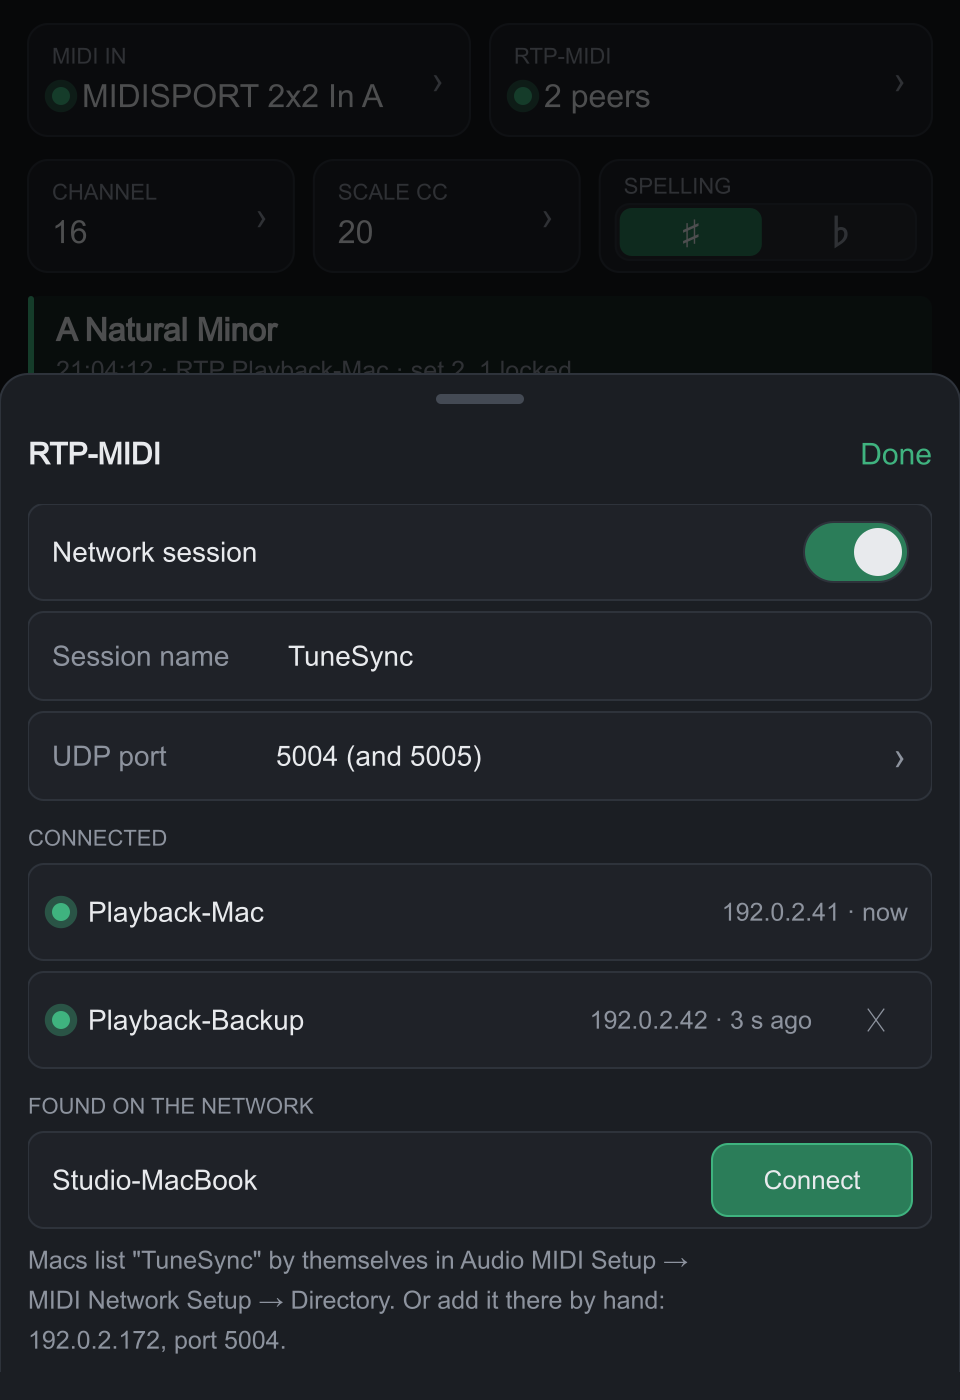
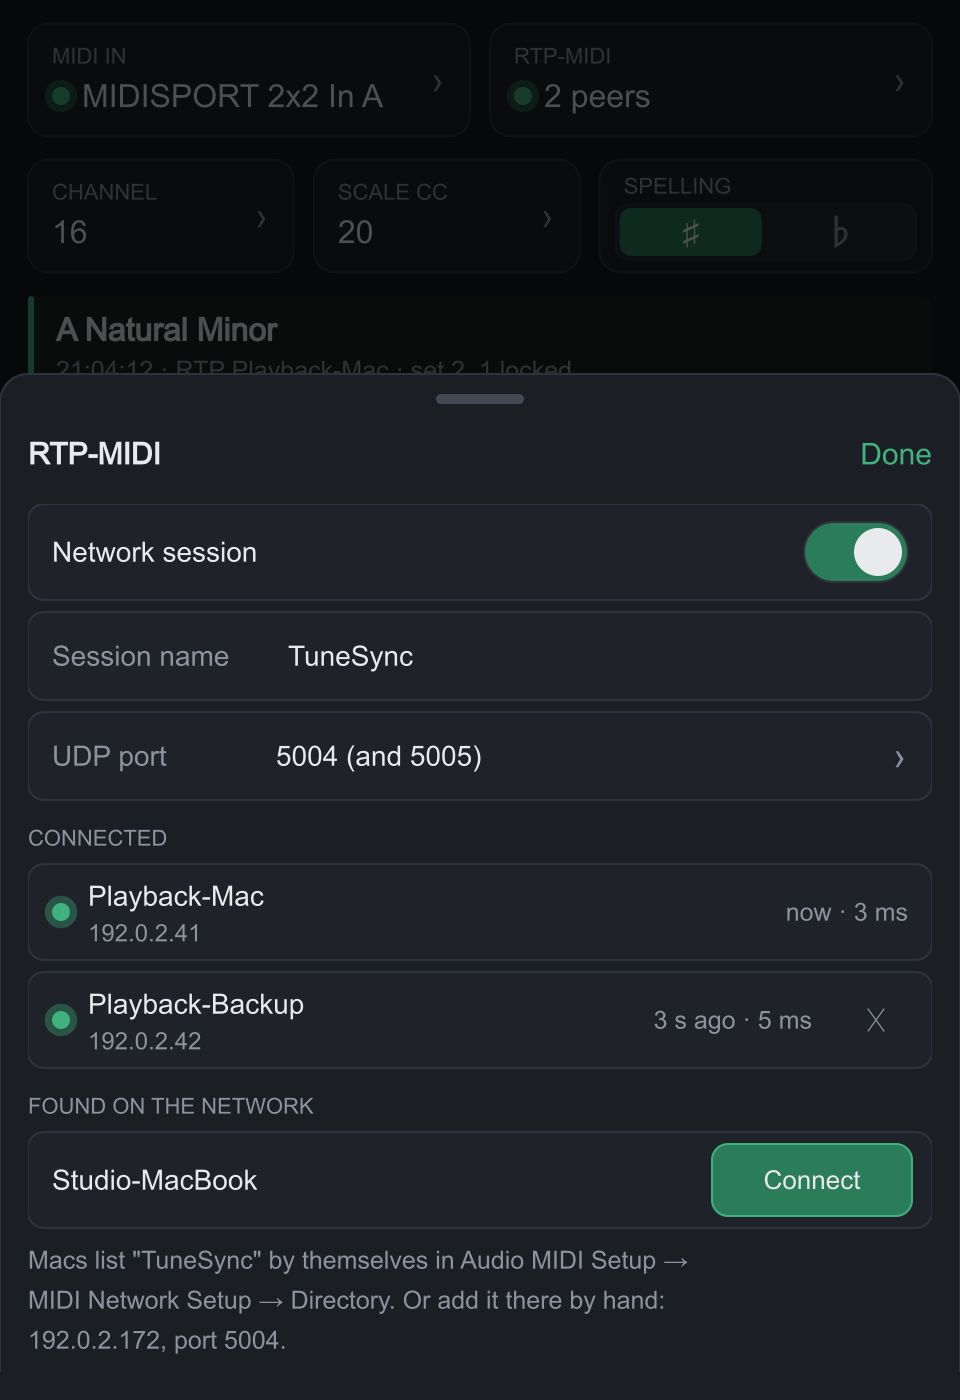
0.1.5: an away peer logged once; the round trip in the RTP-MIDI sheet
A remembered peer that is offline was invited again every 17 s and logged twice
each time, all night, pushing cues out of the window's log and the 1 MB file.
Why it waits is now logged once; its retries stay quiet until it connects or the
reason changes. A Connect from the sheet logs afresh.

The RTP-MIDI sheet shows each peer's network round trip from the clock sync
("now · 4 ms"), with the address under the name, so a long IPv6 address no
longer pushes the state off the row.

README: the network test done, the C API listed.

diff --git a/crates/rtpmidi/src/session.rs b/crates/rtpmidi/src/session.rs
@@ -9,6 +9,7 @@
 //! - **we invite the peer** (Connect in the window, or a remembered peer): IN to its
 //!   control port, then its data port, one a second; then we run clock sync. Refused,
 //!   unanswered or gone quiet: invited again later. After a BY we wait longer (30 s).
+//!   Why it waits is logged once; the retries of a peer that stays away are not.
 //!
 //! Receiver feedback (RS) goes to every connected peer's control port once a second
 //! while its sequence moves.
@@ -156,6 +157,9 @@ struct Peer {
     fed: u32,
     next_rs: u64,
     gone: bool,
+    /// Why it went to Waiting, logged once: while it stays away its retries are not
+    /// logged again (Connected or a new reason clears it).
+    waiting_why: Option<String>,
 }
 
 impl Peer {
@@ -192,6 +196,7 @@ impl Peer {
             fed: 0,
             next_rs: 0,
             gone: false,
+            waiting_why: None,
         }
     }
     // A peer that accepted or sent an invitation holds a session with us: it gets a BY.
@@ -341,12 +346,30 @@ impl Inner {
             return;
         }
         p.v.state = s;
+        // A remembered peer that is away is invited again every few seconds, all night if
+        // need be: say why once, then stay quiet until it connects or the reason changes.
+        let repeat = match s {
+            PeerState::Waiting => p.waiting_why.as_deref() == Some(why),
+            PeerState::Inviting | PeerState::InvitingData => p.waiting_why.is_some(),
+            _ => false,
+        };
+        match s {
+            PeerState::Waiting => p.waiting_why = Some(why.to_string()),
+            PeerState::Connected => p.waiting_why = None,
+            _ => {}
+        }
+        if repeat {
+            return;
+        }
         let d = p.v.display();
         let mut l = if d == p.v.ip { format!("RTP-MIDI: {d} {}", peer_state_name(s)) } else { format!("RTP-MIDI: {d} ({}) {}", p.v.ip, peer_state_name(s)) };
         if !why.is_empty() {
             l += &format!(" - {why}");
         }
-        // Inviting / Waiting cycles of a peer that is away are detail; arrivals and departures are not.
+        if s == PeerState::Waiting {
+            l += "; will keep inviting it";
+        }
+        // An invitation in flight is detail; arrivals, departures and why it waits are not.
         out.log(l, matches!(s, PeerState::Inviting | PeerState::InvitingData | PeerState::Accepting));
     }
     fn start_attempt(&mut self, i: usize, now: u64) {
@@ -361,6 +384,7 @@ impl Inner {
         p.ck_sent = 0;
         p.ck_ts1 = 0;
         p.ck_missed = 0;
+        p.v.rtt_ms = None;
         p.v.ctl_port = p.v.target;
         p.v.data_port = p.v.target.wrapping_add(1);
         p.next_at = now;
@@ -515,6 +539,7 @@ impl Session {
                 if g.peers[i].v.state == PeerState::Waiting {
                     g.start_attempt(i, now);
                     let mut p = std::mem::replace(&mut g.peers[i], Peer::new(""));
+                    p.waiting_why = None; // asked for again: log this attempt afresh
                     g.set_state(&mut p, PeerState::Inviting, "", &mut out);
                     g.peers[i] = p;
                 }

diff --git a/crates/rtpmidi/tests/session.rs b/crates/rtpmidi/tests/session.rs
@@ -574,6 +574,42 @@ fn we_invite() {
     assert!(until(500, || { no.step(); no.bye }), "close says goodbye to connected peers");
 }
 
+/// A remembered peer that is away all night: why it waits is logged once, its retries not
+/// at all, and its return is.
+#[test]
+fn an_away_peer_is_logged_once() {
+    let fake = Arc::new(AtomicU64::new(1000));
+    let (s, _, log, c) = session_with(Some(fake.clone()));
+    s.open(c).unwrap();
+    let mut away = FakeResponder::new();
+    away.silent = true;
+    s.invite("127.0.0.1", away.ctl.port, "Away");
+    let waiting = |s: &Session| s.peers()[0].state == PeerState::Waiting;
+    let mut rounds = 0;
+    for _ in 0..5 * 18 {
+        let was = waiting(&s);
+        until(3, || { s.poll(1); away.step(); false });
+        if waiting(&s) && !was {
+            rounds += 1;
+        }
+        fake.fetch_add(10000, Ordering::SeqCst);
+    }
+    assert!(rounds >= 4, "invited round after round ({rounds})");
+    let lines = |log: &Log| log.lock().unwrap().iter().filter(|l| l.contains("Away")).cloned().collect::<Vec<_>>();
+    assert_eq!(
+        lines(&log),
+        ["RTP-MIDI: Away (127.0.0.1) inviting", "RTP-MIDI: Away (127.0.0.1) waiting - no answer from its control port; will keep inviting it"]
+    );
+
+    // It comes back: connected is logged.
+    away.silent = false;
+    fake.fetch_add(6 * 10000, Ordering::SeqCst);
+    assert!(until(2000, || { s.poll(2); away.step(); s.peers()[0].state == PeerState::Connected }), "connected when it is back");
+    let all = log.lock().unwrap().clone();
+    assert!(all.last().is_some_and(|l| l.ends_with(" connected")), "its return is logged: {all:?}");
+    s.close();
+}
+
 /// Two sessions (TuneSync and a sender tool) talk to each other.
 #[test]
 fn session_to_session() {

diff --git a/crates/ui/src/view.rs b/crates/ui/src/view.rs
@@ -636,9 +636,14 @@ fn draw_sheet(b: &mut B, m: &Model, v: &View, sheet: &Sheet, w: f32, h: f32) {
                 let r = Rect::new(0.0, y, cw, OPT_H);
                 rows.bx(r, 8.0, PANEL, Some(LINE));
                 rows.dot(16.5, y + OPT_H / 2.0, if p.connected { ACC } else { IDLE_DOT }, p.connected);
-                rows.text(Rect::new(30.0, y, cw * 0.45, OPT_H), &p.name, 14.0, 400, FG, Align::Left);
-                let sub_w = if p.invited { cw - 30.0 - cw * 0.45 - 60.0 } else { cw - 30.0 - cw * 0.45 - 12.0 };
-                rows.text(Rect::new(30.0 + cw * 0.45, y, sub_w, OPT_H), &format!("{} · {}", p.ip, p.status), 12.5, 400, DIM, Align::Right);
+                // the name over its address (an IPv6 one is long), the state at the right
+                let right = if p.invited { cw - 60.0 } else { cw - 12.0 };
+                let state_w = 132.0;
+                let left_w = right - state_w - 8.0 - 30.0;
+                rows.text(Rect::new(30.0, y + 5.0, left_w, 22.0), &p.name, 14.0, 400, FG, Align::Left);
+                rows.text(Rect::new(30.0, y + 26.0, left_w, 17.0), &p.ip, 12.0, 400, DIM, Align::Left);
+                let state = if p.rtt.is_empty() { p.status.clone() } else { format!("{} · {}", p.status, p.rtt) };
+                rows.text(Rect::new(right - state_w, y, state_w, OPT_H), &state, 12.5, 400, DIM, Align::Right);
                 if p.invited {
                     let xr = Rect::new(cw - 52.0, y + 2.0, 48.0, OPT_H - 4.0);
                     rows.text(xr, "✕", 16.0, 400, if rows.is_pressed(&Hit::Forget(p.ip.clone(), p.port)) { FG } else { DIM }, Align::Center);

diff --git a/crates/ui/src/model.rs b/crates/ui/src/model.rs
@@ -47,6 +47,8 @@ pub struct PeerRow {
     pub port: u16,
     /// "now", "3 s ago", "inviting", "waiting"
     pub status: String,
+    /// The network round trip clock sync measured, "4 ms"; "" until it has.
+    pub rtt: String,
     pub connected: bool,
     /// We invited it (Connect / remembered): it can be disconnected and forgotten.
     pub invited: bool,
@@ -99,6 +101,15 @@ pub fn ago(ms: u64) -> String {
     }
 }
 
+/// A network round trip: "4 ms", "<1 ms" on a fast wired network, "" when not measured.
+pub fn rtt(ms: Option<f64>) -> String {
+    match ms {
+        Some(r) if (0.0..1.0).contains(&r) => "<1 ms".into(),
+        Some(r) if r.is_finite() && r >= 1.0 => format!("{r:.0} ms"),
+        _ => String::new(),
+    }
+}
+
 #[cfg(test)]
 mod tests {
     use super::*;
@@ -112,5 +123,9 @@ mod tests {
         assert_eq!(ago(500), "now");
         assert_eq!(ago(3200), "3 s ago");
         assert_eq!(ago(300_000), "5 min ago");
+        assert_eq!(rtt(Some(4.4)), "4 ms");
+        assert_eq!(rtt(Some(0.3)), "<1 ms");
+        assert_eq!(rtt(None), "");
+        assert_eq!(rtt(Some(f64::NAN)), "");
     }
 }

diff --git a/crates/ui/examples/preview.rs b/crates/ui/examples/preview.rs
@@ -20,8 +20,8 @@ pub fn sample() -> Model {
             active: true,
             advert: "advertised".into(),
             peers: vec![
-                PeerRow { name: "Playback-Mac".into(), ip: "192.0.2.41".into(), port: 5004, status: "now".into(), connected: true, invited: false },
-                PeerRow { name: "Playback-Backup".into(), ip: "192.0.2.42".into(), port: 5004, status: "3 s ago".into(), connected: true, invited: true },
+                PeerRow { name: "Playback-Mac".into(), ip: "192.0.2.41".into(), port: 5004, status: "now".into(), rtt: "3 ms".into(), connected: true, invited: false },
+                PeerRow { name: "Playback-Backup".into(), ip: "192.0.2.42".into(), port: 5004, status: "3 s ago".into(), rtt: "5 ms".into(), connected: true, invited: true },
             ],
             found: vec![FoundRow { name: "Studio-MacBook".into(), ip: "192.0.2.77".into(), port: 5004, joined: false }],
             ..Default::default()

diff --git a/crates/ui/tests/view.rs b/crates/ui/tests/view.rs
@@ -13,7 +13,7 @@ fn model() -> Model {
         rtp: RtpModel {
             open: true,
             found: vec![FoundRow { name: "Studio".into(), ip: "10.0.0.7".into(), port: 5004, joined: false }],
-            peers: vec![PeerRow { name: "Main".into(), ip: "10.0.0.5".into(), port: 5004, status: "now".into(), connected: true, invited: true }],
+            peers: vec![PeerRow { name: "Main".into(), ip: "10.0.0.5".into(), port: 5004, status: "now".into(), rtt: "4 ms".into(), connected: true, invited: true }],
             ..Default::default()
         },
         ..Default::default()

diff --git a/crates/control/src/model.rs b/crates/control/src/model.rs
@@ -30,6 +30,7 @@ pub fn build(rt: &Runtime, lv1_problem: Option<String>, local_ips: &[String]) ->
                 } else {
                     peer_state_name(p.state).to_string()
                 },
+                rtt: if connected { rtt(p.rtt_ms) } else { String::new() },
                 connected,
                 invited: p.invited,
             }

diff --git a/docs/DESIGN.md b/docs/DESIGN.md
@@ -153,7 +153,9 @@ The window is about 480 px wide. From top to bottom:
 - **Several peers at once.** Several peers can join the same session, as AppleMIDI allows:
   one port pair, with each participant told apart by its SSRC. For example, a main and a
   backup playback rig.
-  - Each connected peer is listed with its name, address and when it was last heard.
+  - Each connected peer is listed with its name, its address under the name (an IPv6 one is
+    long), when it was last heard and the network round trip the clock sync measured
+    ("now · 4 ms").
   - A message from any peer applies, and the log names the peer it came from.
   - When main and backup send the same cue together, the 30 ms coalescing makes it one change.
 - **Auto-discovery, with no Bonjour install.** Windows 10 and 11 have DNS-SD built in
@@ -164,7 +166,10 @@ The window is about 480 px wide. From top to bottom:
   - **Browse:** list the Macs' own network sessions under "Found on the network", each with
     a Connect button. TuneSync then invites the Mac as the initiator, so the Mac only needs
     its session enabled. Connections made this way are remembered and re-invited when the Mac
-    comes back.
+    comes back. A remembered peer that is away is invited again every few seconds, so its
+    log line is written once ("waiting - no answer from its control port; will keep inviting
+    it"), and nothing more until it connects or the reason changes. Before 0.1.5 it added two
+    lines every 17 s, all night, pushing the cues out of the window's log and the 1 MB file.
   - Typing the host IP and port on the Mac still works as a fallback.
   - **IPv6 as well as IPv4.** The host's DNS-SD records carry its IPv6 link-local address
     next to the IPv4 one (Windows publishes both for its host name, and so does macOS), and

diff --git a/README.md b/README.md
@@ -150,6 +150,7 @@ Tune instances, and drives it end to end: interface checks, an RTP-MIDI cue, Loc
 | [`crates/lv1-surface`](crates/lv1-surface) | eMotion LV1's control-surface driver interface in Rust: the ABI, the exported entry points and guarded calls into LV1. |
 | [`crates/ui`](crates/ui) | The settings window as a portable view model, with an SVG renderer for previews and tests. |
 | [`crates/control`](crates/control) | `TuneSync_Control.dll`, the thin module LV1 loads, with the Direct2D window. |
+| [`crates/capi`](crates/capi) | TuneSync as a C library (`include/tunesync.h`, static or shared) for a C or C++ host. |
 | [`crates/sim`](crates/sim) | A simulated LV1 for testing the DLL without LV1. |
 
 The design and its decisions are documented in [docs/DESIGN.md](docs/DESIGN.md).
@@ -157,10 +158,12 @@ The design and its decisions are documented in [docs/DESIGN.md](docs/DESIGN.md).
 ## Status
 
 TuneSync 0.1 has been tested on a live LV1 system (LV1 17.3.108, Windows 11): RTP-MIDI and
-local MIDI cues, Lock, the settings window and LV1's responsiveness. Still to be verified:
-a Mac joining over a real network, and the stereo Tune instance.
+local MIDI cues, Lock, the settings window, LV1's responsiveness, and a Mac, an iPad and an
+iPhone joining over a real network in both directions. Still to be verified: the stereo Tune
+instance.
 
-Planned: a macOS version, and a C API so the library can be embedded in other hosts.
+The library is also available as a C API ([`crates/capi`](crates/capi)) for embedding in other
+hosts. Planned: a macOS version.
 
 ## License
 
